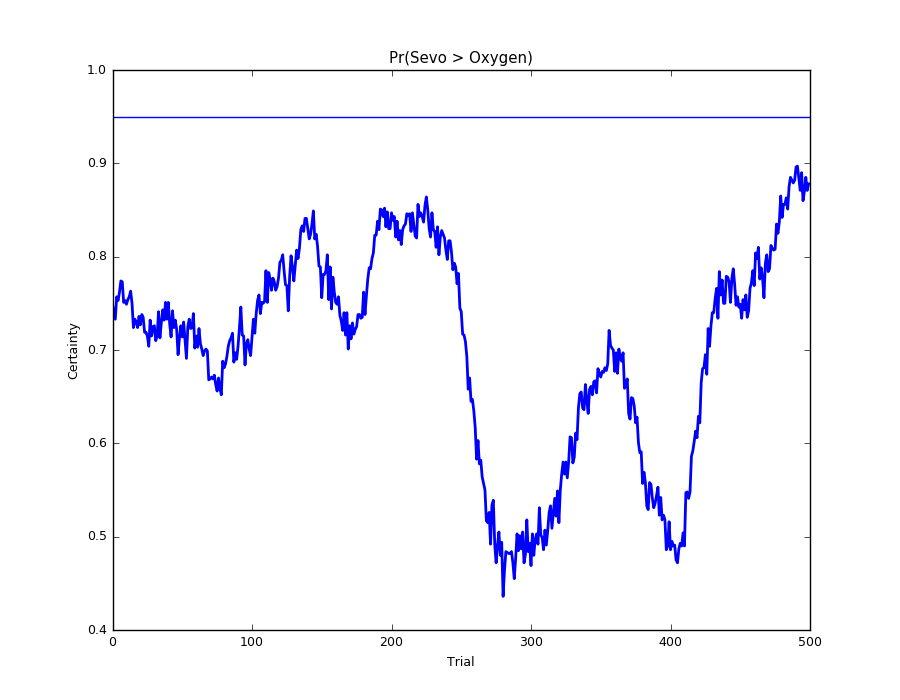
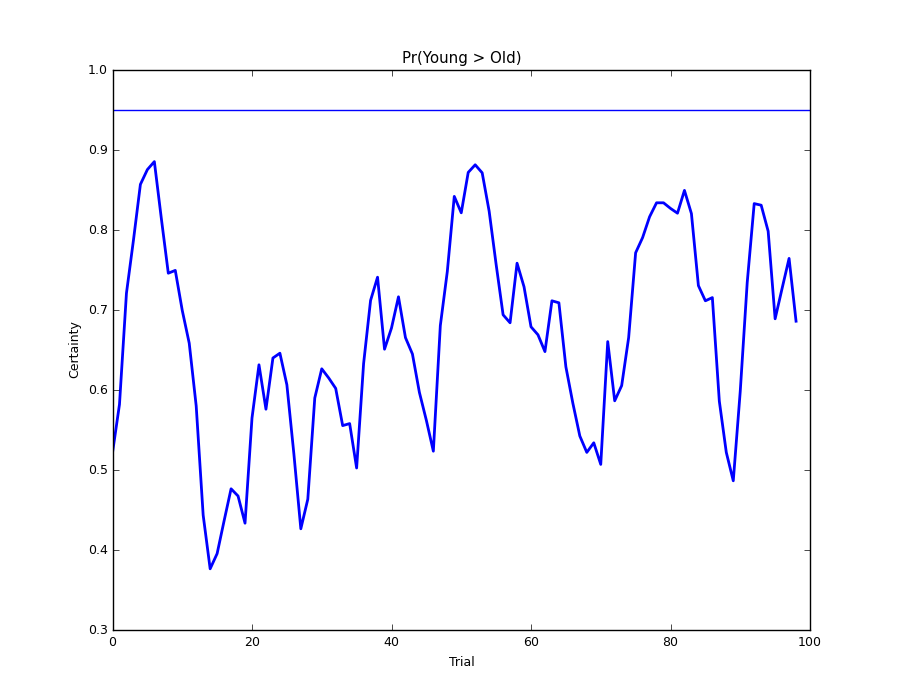
Population Analysis with pymc3

diff --git a/PythonGroup/runBothv2.py b/PythonGroup/runBothv2.py
@@ -92,14 +92,15 @@ def main(group, fig_no, savetrace):
 
     if group == 'young':
         fig_no = 1
+        data_numAll = pd.read_csv('/Volumes/TRANS 1/BarnesLab/RawData/Processed Data/youngData.csv').ix[:,1:100]
     else:
         fig_no = 2
+        data_numAll = pd.read_csv('/Volumes/TRANS 1/BarnesLab/RawData/Processed Data/oldData.csv').ix[:,1:100]
 
-    data_numAll = pd.read_csv('/Volumes/TRANS 1/datanew.csv')
-    data_numAll = data_numAll.ix[:11,1:100]
+    # data_numAll = pd.read_csv('/Volumes/TRANS 1/datanew.csv')
+    # data_numAll = data_numAll.ix[:11,1:100]
 
-    ratNums = pd.read_csv('/Users/adelekap/Documents/WMaze_Analysis/pandas_viz/rats.csv')
-    
+
 
     ct = -1
 
@@ -199,24 +200,24 @@ if __name__ == "__main__":
     savetrace = {}
     p_sevo   = main('young', 1, savetrace)
     p_oxyg   = main('old', 2, savetrace)
-    #
-    # p_bigger = p_sevo-p_oxyg
-    # prop_higher = pd.DataFrame()
-    # for t in range(p_bigger.shape[1]):
-    #     prop_higher.set_value(t,'prop', (p_bigger[:,t]>0).sum()/float(p_bigger.shape[0]))
-    #
-    # r1 = np.reshape(p_sevo, (1, p_sevo.shape[0]*p_sevo.shape[1]))
-    # r2 = np.reshape(p_oxyg, (1, p_oxyg.shape[0]*p_oxyg.shape[1]))
-    #
-    # overall = ((r1-r2)>0).sum()/float(r1.shape[1])
-    #
-    # print 'overall ', overall
-    # plt.figure(20)
-    # plt.plot(prop_higher, lw = 2)
-    # plt.title('Pr(Sevo > Oxygen)')
-    # plt.ylabel('Certainty')
-    # plt.xlabel('Trial')
-    # plt.axhline(0.95)
-    # plt.savefig('PrDiff.png')
+
+    p_bigger = p_sevo-p_oxyg
+    prop_higher = pd.DataFrame()
+    for t in range(p_bigger.shape[1]):
+        prop_higher.set_value(t,'prop', (p_bigger[:,t]>0).sum()/float(p_bigger.shape[0]))
+
+    r1 = np.reshape(p_sevo, (1, p_sevo.shape[0]*p_sevo.shape[1]))
+    r2 = np.reshape(p_oxyg, (1, p_oxyg.shape[0]*p_oxyg.shape[1]))
+
+    overall = ((r1-r2)>0).sum()/float(r1.shape[1])
+
+    print 'overall ', overall
+    plt.figure(20)
+    plt.plot(prop_higher, lw = 2)
+    plt.title('Pr(Young > Old)')
+    plt.ylabel('Certainty')
+    plt.xlabel('Trial')
+    plt.axhline(0.95)
+    plt.savefig('PrDiff.png')
 
 

diff --git a/PythonGroup/splitAges.py b/PythonGroup/splitAges.py
@@ -1,0 +1,25 @@
+import pandas as pd
+import os
+
+ratNums = pd.read_csv('/Users/adelekap/Documents/WMaze_Analysis/pandas_viz/rats.csv')
+youngRats = list(ratNums[ratNums['AGE'] == 10]['RAT'])
+oldRats = list(ratNums[ratNums['AGE'] == 25]['RAT'])
+
+youngData = pd.DataFrame()
+oldData = pd.DataFrame()
+
+dir = '/Volumes/TRANS 1/BarnesLab/RawData/Processed Data'
+files = os.listdir(dir)
+for y in youngRats:
+    os.chdir(dir + '/'+ str(y))
+    y_rat = pd.read_csv(str(y)+'_DATA.csv')
+    youngData[str(y)] = y_rat['Correct/Incorrect']
+for o in oldRats:
+    os.chdir(dir+'/'+str(o))
+    o_rat = pd.read_csv(str(o)+'_DATA.csv')
+    oldData[str(o)] = o_rat['Correct/Incorrect']
+
+youngDataNew = youngData.transpose()
+oldDataNew = oldData.transpose()
+youngDataNew.to_csv(dir+'/youngData.csv')
+oldDataNew.to_csv(dir+'/oldData.csv')
